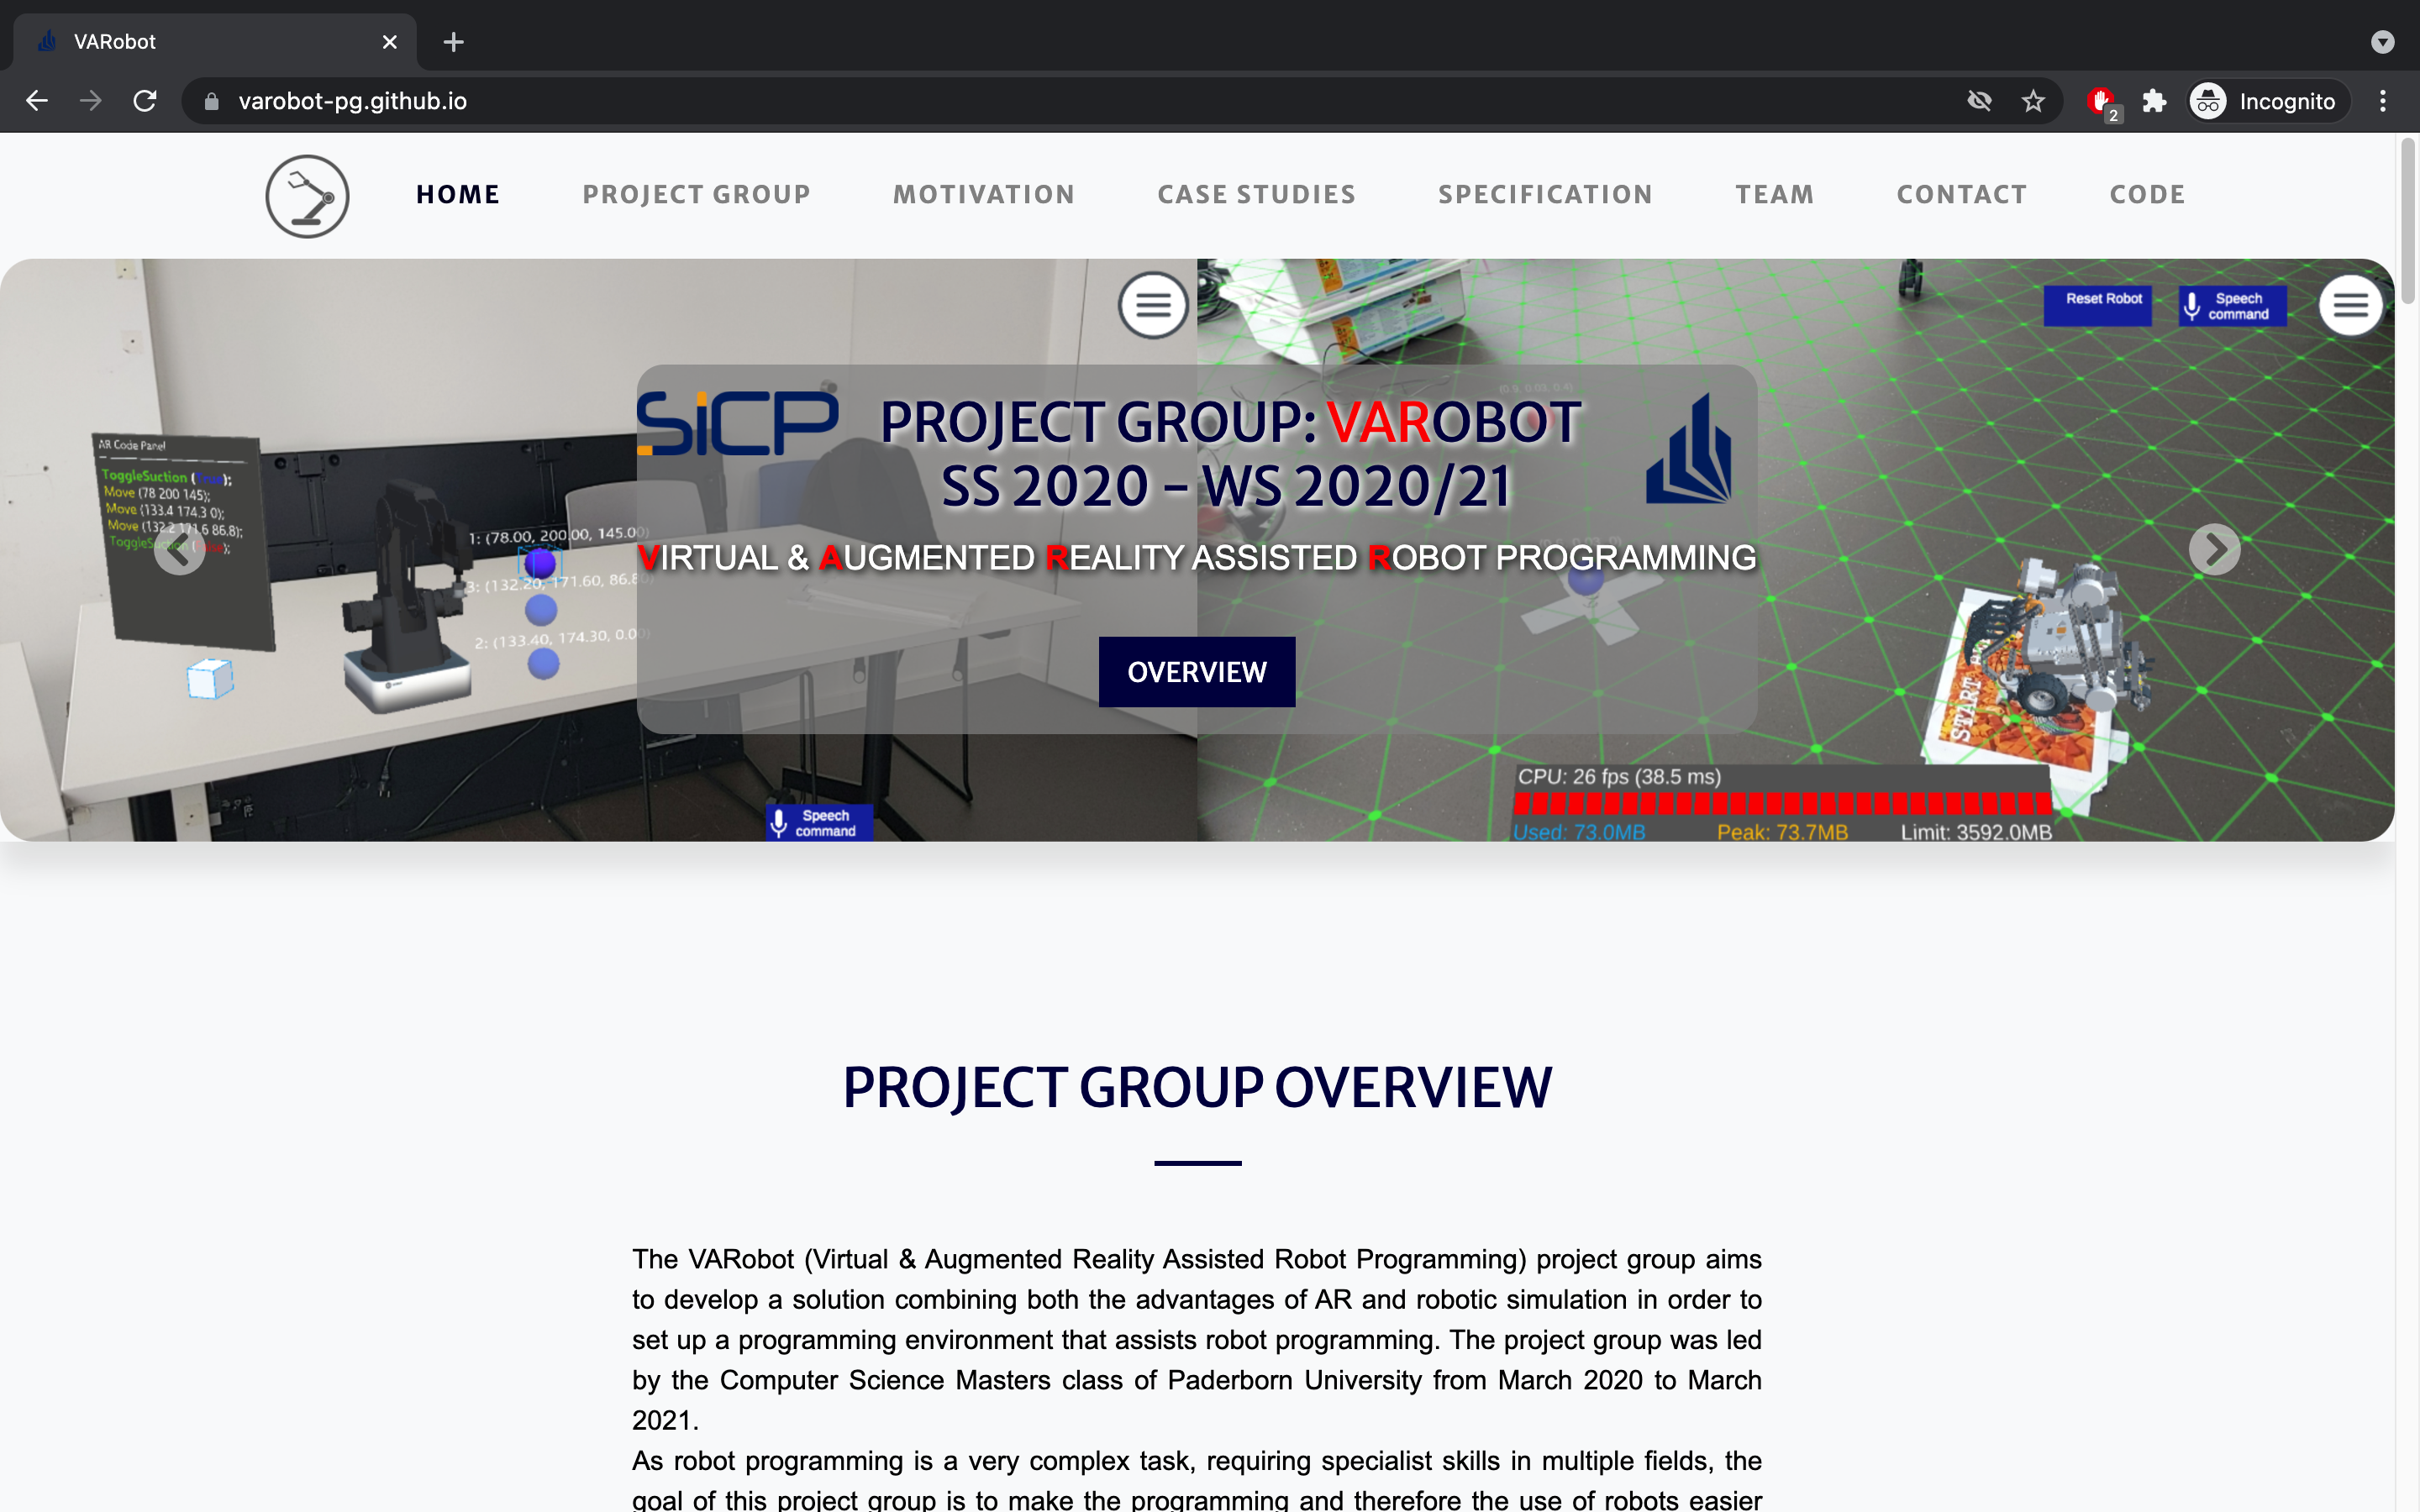
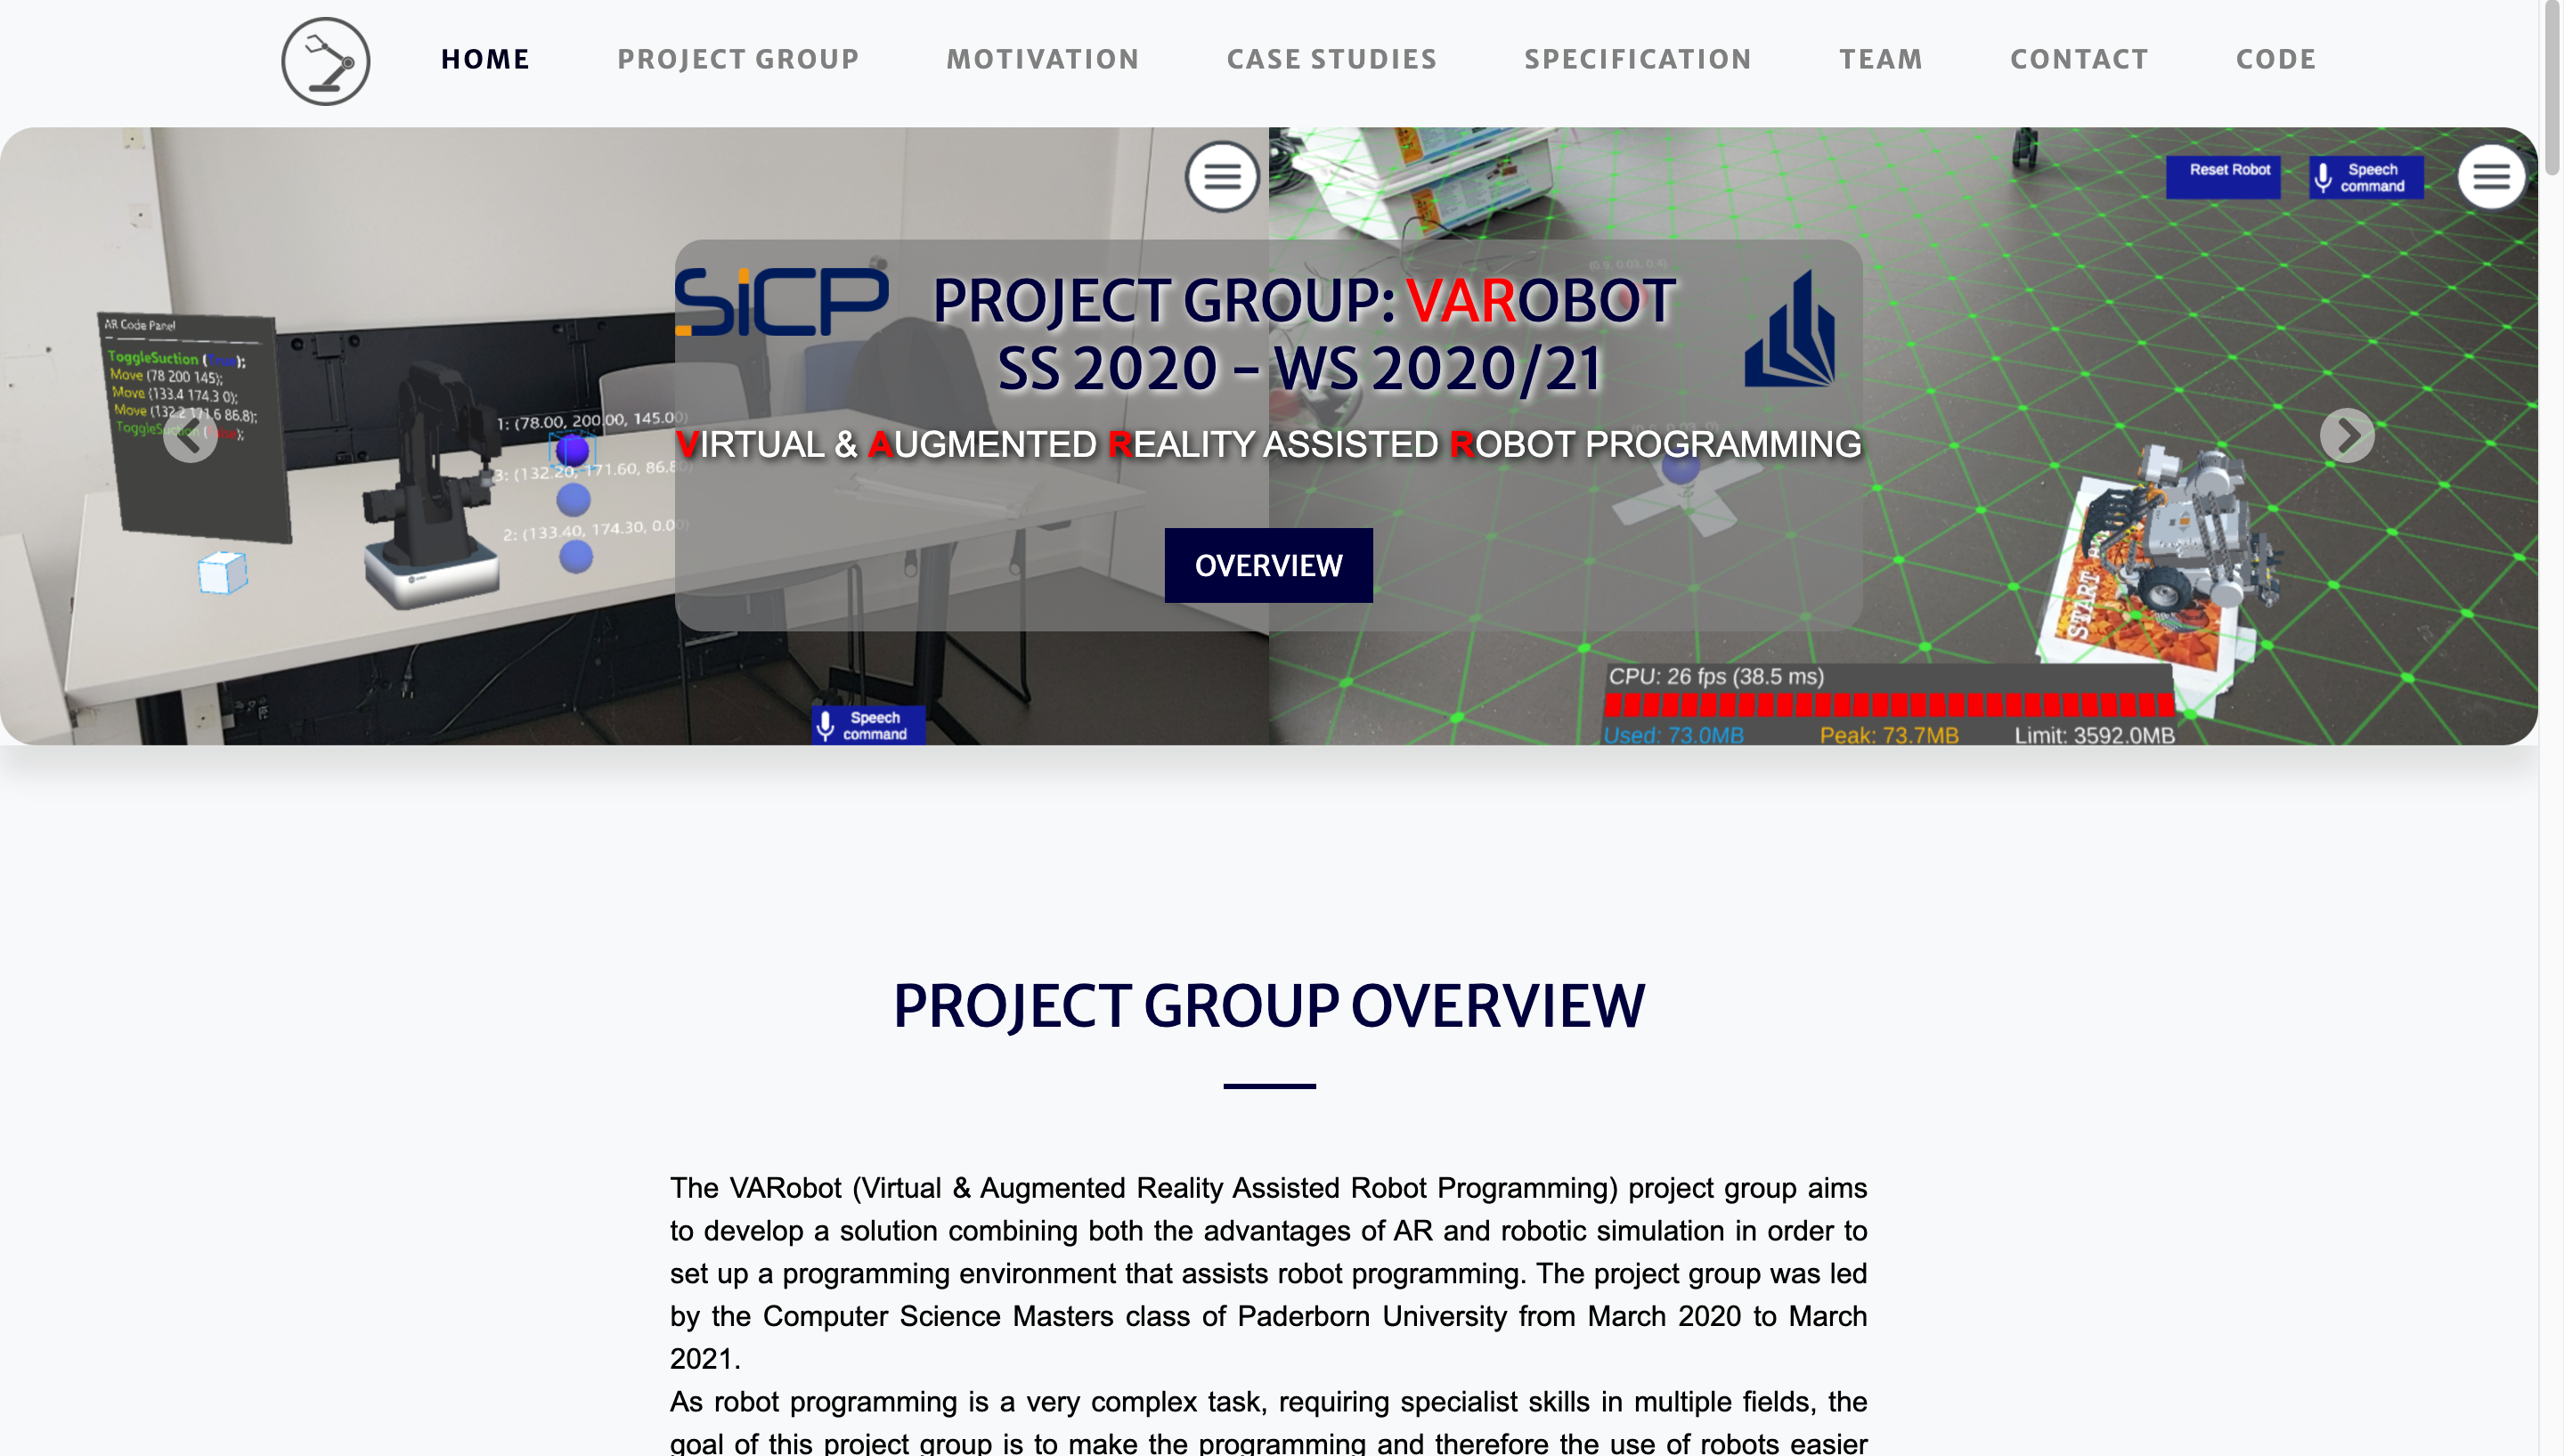
project images

diff --git a/projects.html b/projects.html
@@ -40,18 +40,18 @@
     <!-- Right Side: Full-bleed Imagery Column -->
     <div class="touch-image-column">
       <!-- Replaced with the desk scene asset featured in Screenshot 2026-06-11 at 22.53.38.jpg -->
-      <img src="imgs/website.png" alt="A phone showing design blueprints resting on a notebook next to a cup of black coffee" />
+      <img src="imgs/website_background.png" alt="A phone showing design blueprints resting on a notebook next to a cup of black coffee" />
     </div>
   
   </section>
 
   <!-- Contact -->
-  <section class="get-in-touch-section" id="contact">
+  <section class="get-in-touch-section2" id="contact">
 
      <!-- Right Side: Full-bleed Imagery Column -->
-     <div class="touch-image-column2">
+     <div class="touch-image-column">
       <!-- Replaced with the desk scene asset featured in Screenshot 2026-06-11 at 22.53.38.jpg -->
-      <img src="imgs/Varobot.png" alt="A phone showing design blueprints resting on a notebook next to a cup of black coffee" />
+      <img src="imgs/varobot_ground.png" alt="A phone showing design blueprints resting on a notebook next to a cup of black coffee" />
     </div>
   
     <!-- Left Side: Terracotta Content Column -->
@@ -83,30 +83,13 @@
       <!-- Right Side: Full-bleed Imagery Column -->
       <div class="touch-image-column2">
         <!-- Replaced with the desk scene asset featured in Screenshot 2026-06-11 at 22.53.38.jpg -->
-        <img src="imgs/Ebook.png" alt="A phone showing design blueprints resting on a notebook next to a cup of black coffee" />
+        <img src="imgs/Ebook_mobile.png" alt="A phone showing design blueprints resting on a notebook next to a cup of black coffee" />
       </div>
     
     </section>
 
     <!-- Footer -->
-    <footer class="portfolio-footer">
-      <div class="footer-container">
-        
-        <div class="footer-column footer-brand">
-          <h2>Juliet</h2>
-        </div>
+   
     
-        <div class="footer-column footer-contact">
-          <p>Dortmund, Germany</p>
-          <p><a href="mailto:[email redacted]">[email redacted]</a></p>
-        </div>
-    
-        <div class="footer-column footer-credits">
-          <p>Connect with me on <a href="https://www.linkedin.com/in/juliet-chukwuemeka/" target="_blank" style="color: #0077b5; class="linkedin-link">LinkedIn</a> to see my professional updates.</p>
-        </div>
-    
-      </div>
-    </footer>
-
   </body>
 </html>

diff --git a/css/projects.css b/css/projects.css
@@ -84,8 +84,19 @@ nav a{
   display: flex;
   align-items: stretch;         /* Guarantees left background and right image share identical heights */
   width: 100%;
+  padding: 0px 0;                   /* Strips container padding to allow edge-to-edge bleed */
+  background-color: #c8656045;    /* Muted terracotta red/brown tone matching the screenshot */
+  box-sizing: border-box;
+}
+
+
+/* Core Section Container */
+.get-in-touch-section2 {
+  display: flex;
+  align-items: stretch;         /* Guarantees left background and right image share identical heights */
+  width: 100%;
   padding: 0;                   /* Strips container padding to allow edge-to-edge bleed */
-  background-color: #aa524d;    /* Muted terracotta red/brown tone matching the screenshot */
+  background-color: #92c86029;    /* Muted terracotta red/brown tone matching the screenshot */
   box-sizing: border-box;
 }
 
@@ -135,23 +146,25 @@ nav a{
 /* Section Title Typography */
 .touch-content-inner h2 {
   font-family: -apple-system, BlinkMacSystemFont, "Segoe UI", Roboto, Helvetica, Arial, sans-serif;
-  color: #ffffff;               /* Clean white heading contrast */
+  color: #020000;               /* Clean white heading contrast */
   font-size: 2.8rem;
   font-weight: 700;
   margin-top: 0;
   margin-bottom: 28px;
   letter-spacing: -0.02em;
+  text-align: center;
 }
 
 /* Section Body Copy Styling */
 .touch-content-inner p {
   font-family: -apple-system, BlinkMacSystemFont, "Segoe UI", Roboto, Helvetica, Arial, sans-serif;
-  color: rgba(255, 255, 255, 0.9); /* Slightly soft white opacity tint for an elegant feel */
+  color: rgba(15, 0, 0, 0.9); /* Slightly soft white opacity tint for an elegant feel */
   font-size: 1.1rem;
   line-height: 1.6;
   margin-top: 0;
   margin-bottom: 48px;          /* Significant gap pushing down to the main button */
   letter-spacing: -0.01em;
+  text-align: center;
 }
 
 
@@ -445,7 +458,7 @@ nav a{
   color: #111111;
   text-decoration: none;
   padding-bottom: 4px;
-  border-bottom: 1px solid #b74e4e; /* Juliet's brand signature reddish accent line under link */
+  border-bottom: 1px solid #b74e4e30; /* Juliet's brand signature reddish accent line under link */
   transition: all 0.2s ease;
 }
 